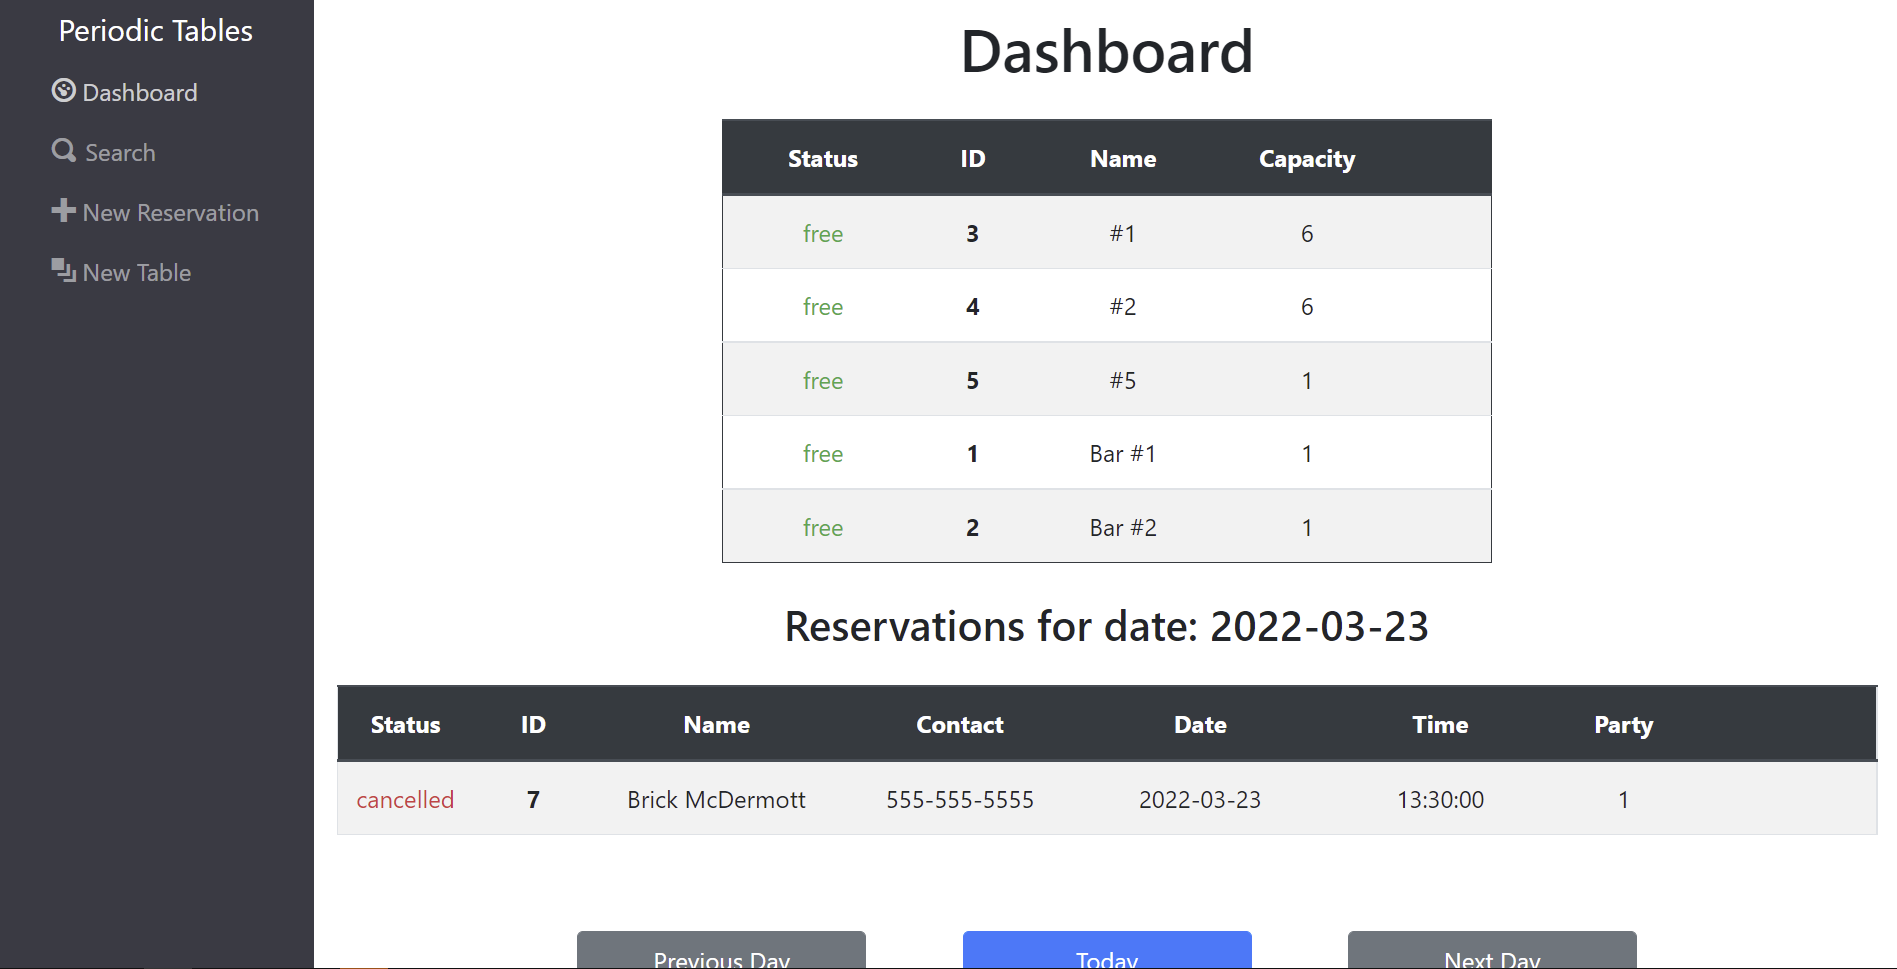
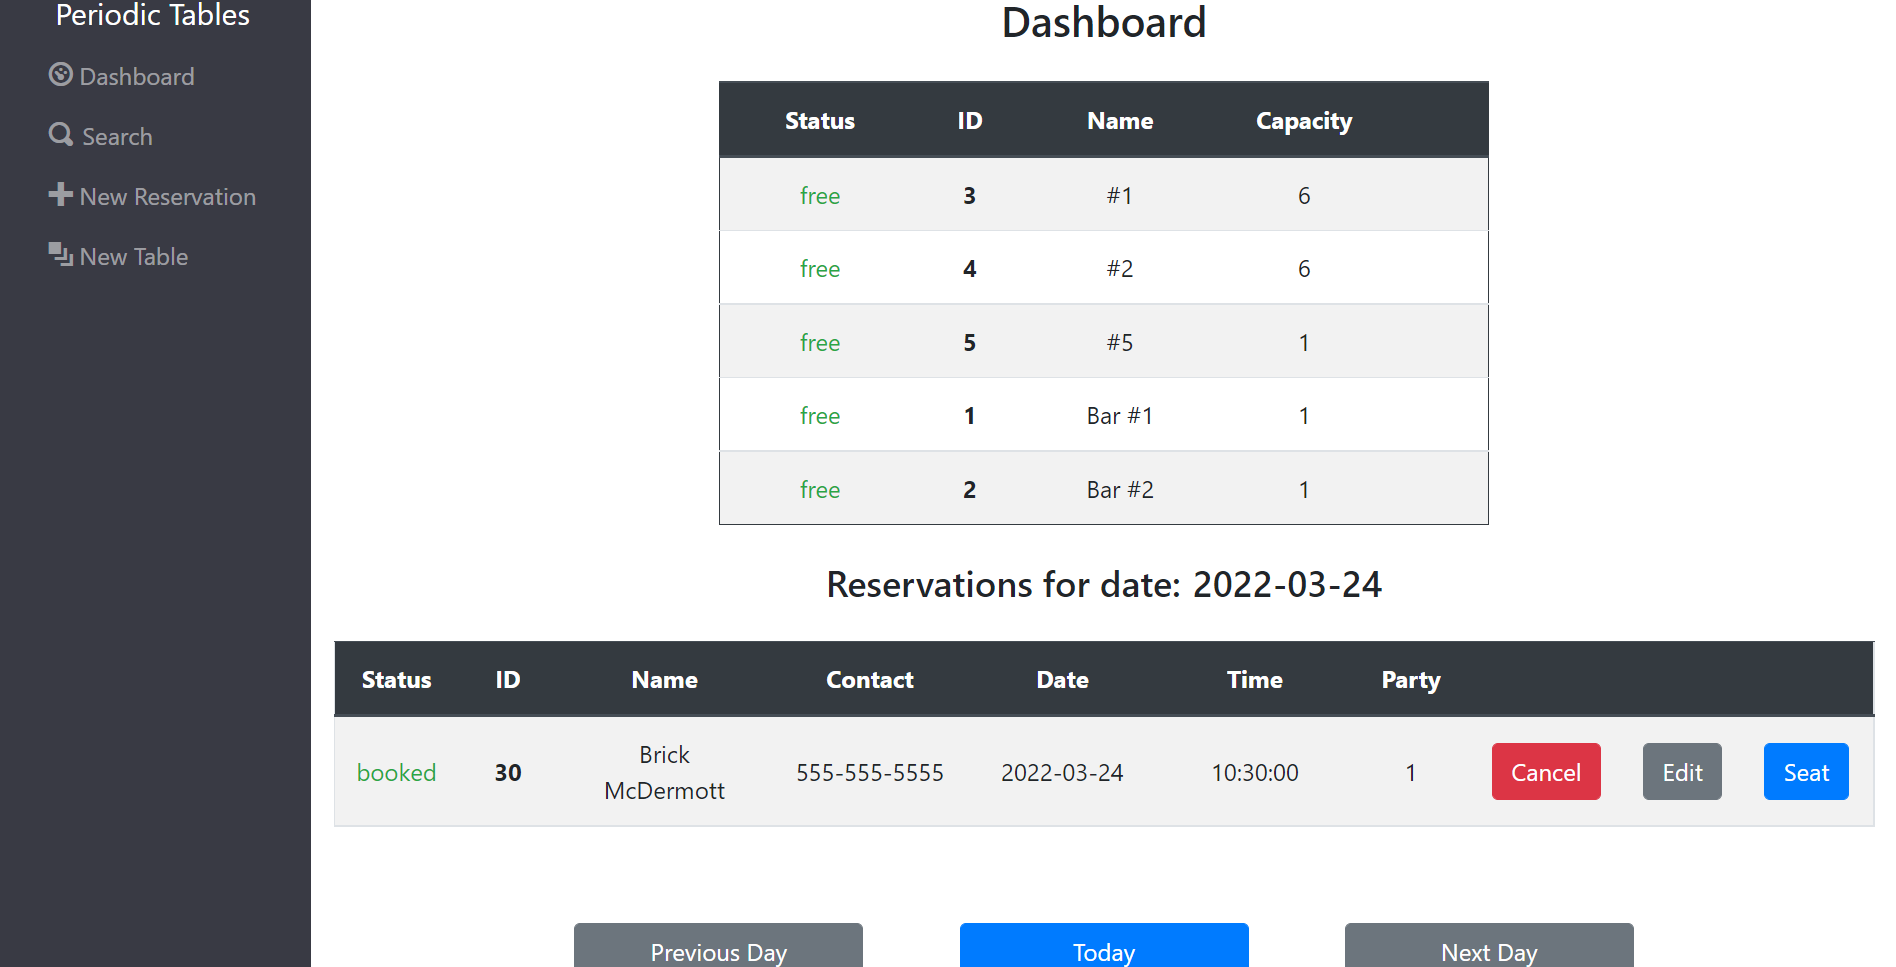
last changes, adding hyphen to phone number

diff --git a/front-end/src/dashboard/Dashboard.js b/front-end/src/dashboard/Dashboard.js
@@ -18,11 +18,8 @@ export default function Dashboard() {
   const [tables, setTables] = useState([]);
   const [error, setError] = useState(null);
 
-  // get reservations when date changes
-  useEffect(loadDashboard, [date]);
-
-  // function to get reservations and tables
-  async function loadDashboard() {
+  // load dashboard
+  useEffect(() => {
     const controller = new AbortController();
     setError(null);
     // get reservations matching date
@@ -32,7 +29,7 @@ export default function Dashboard() {
     // get tables
     listTables(controller.signal).then(setTables).catch(setError);
     return () => controller.abort();
-  }
+  }, [date]);
 
   // function to clear table when finished
   const finishTable = async (table_id) => {
@@ -44,8 +41,12 @@ export default function Dashboard() {
       const controller = new AbortController();
       // finish table
       clearTable(table_id, controller.signal)
-        // get tables and reservations
-        .then(() => loadDashboard());
+        // get reservations matching date
+        .then(() => listReservations({ date }, controller.signal))
+        .then(setReservations)
+        .then(() => listTables(controller.signal))
+        .then(setTables)
+        .catch(setError);
       return () => controller.abort();
     }
   };
@@ -57,11 +58,11 @@ export default function Dashboard() {
     <main>
       {error ? <ErrorAlert error={error} /> : null}
       <div className="d-flex flex-column align-items-center mt-2">
-        <h1>Dashboard</h1>
+        <h3>Dashboard</h3>
         <TableTable tables={tables} finishTable={finishTable} />
         <div className="d-flex align-items-center mb-3 mt-2">
-          <h3>Reservations for date:</h3>
-          <h3 className="ml-2">{displayDate}</h3>
+          <h4>Reservations for date:</h4>
+          <h4 className="ml-2">{displayDate}</h4>
         </div>
         <ReservationTable reservations={reservations} />
         {reservations.length === 0 ? <h6>No reservations found</h6> : null}

diff --git a/front-end/src/common/forms/ReservationForm.js b/front-end/src/common/forms/ReservationForm.js
@@ -25,7 +25,7 @@ export default function ReservationForm({
 
   return (
     <div className="d-flex flex-column align-items-center">
-      <h2 className="my-3">{type} Reservation</h2>
+      <h3 className="my-3">{type} Reservation</h3>
 
       <div className="card p-4 mt-2">
         <form onSubmit={handleSubmit}>
@@ -55,7 +55,7 @@ export default function ReservationForm({
               />
             </div>
             <div className="form-group col-4">
-              <label htmlFor="mobile_number">Mobile Number</label>
+              <label htmlFor="mobile_number">Mobile #</label>
               <input
                 type="text"
                 className="form-control"
@@ -69,7 +69,7 @@ export default function ReservationForm({
           </div>
           <div className="form-row">
             <div className="form-group col-4">
-              <label htmlFor="people">Number of People</label>
+              <label htmlFor="people">People</label>
               <input
                 type="number"
                 className="form-control"

diff --git a/front-end/src/reservations/CreateReservation.js b/front-end/src/reservations/CreateReservation.js
@@ -3,7 +3,7 @@ import { useHistory } from "react-router-dom";
 import { createReservation } from "../utils/api";
 import ErrorAlert from "../layout/ErrorAlert";
 import ReservationForm from "../common/forms/ReservationForm";
-import { today } from "../utils/date-time";
+import { today, formatAsPhoneNumber } from "../utils/date-time";
 
 export default function CreateReservation() {
   const history = useHistory();
@@ -25,6 +25,8 @@ export default function CreateReservation() {
   const handleSubmit = async (event) => {
     event.preventDefault();
     const controller = new AbortController();
+    // format phone number
+    reservation.mobile_number = formatAsPhoneNumber(reservation.mobile_number)
     // create reservation
     createReservation(reservation, controller.signal)
       // redirect to reservation date's dashboard

diff --git a/front-end/src/utils/date-time.js b/front-end/src/utils/date-time.js
@@ -40,10 +40,13 @@ export function formatAsTime(timeString) {
   return timeString.match(timeFormat)[0];
 }
 
+export function formatAsPhoneNumber(mobile_number) {
+  return mobile_number.replace(/(\d{3})(\d{3})(\d{4})/, "$1-$2-$3")
+}
 /**
  * Today's date as YYYY-MM-DD.
  * @returns {*}
- *  the today's date formatted as YYYY-MM-DD
+ *  the today's date formatted as YYYY-MM-DDcd 
  */
 export function today() {
   return asDateString(new Date());
